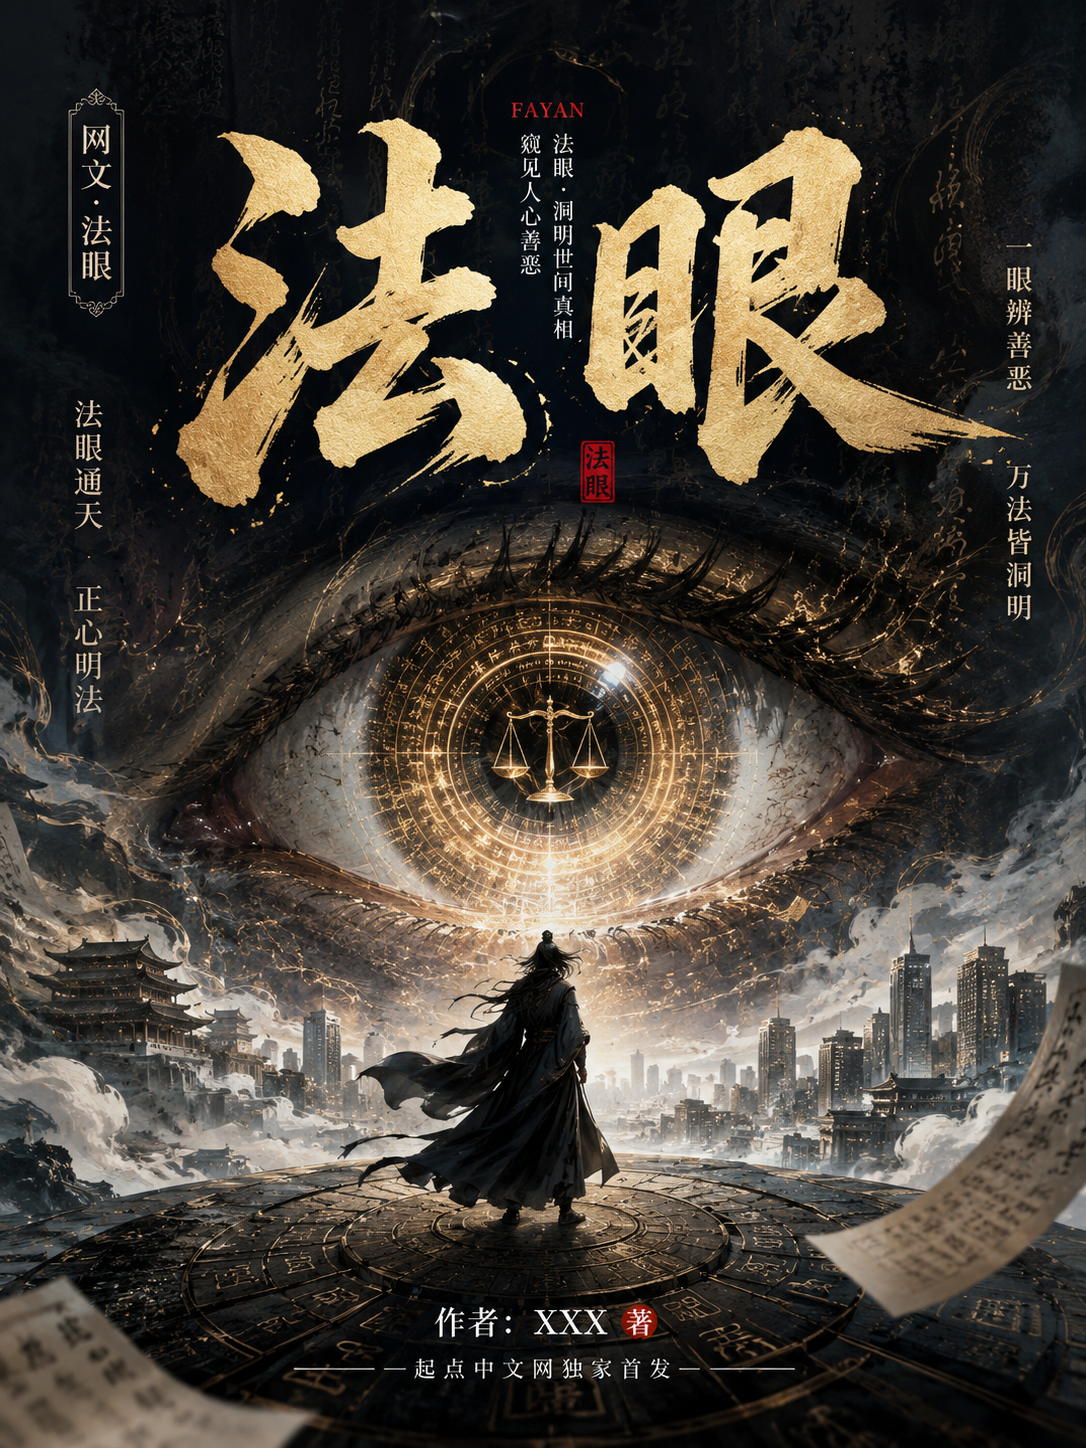
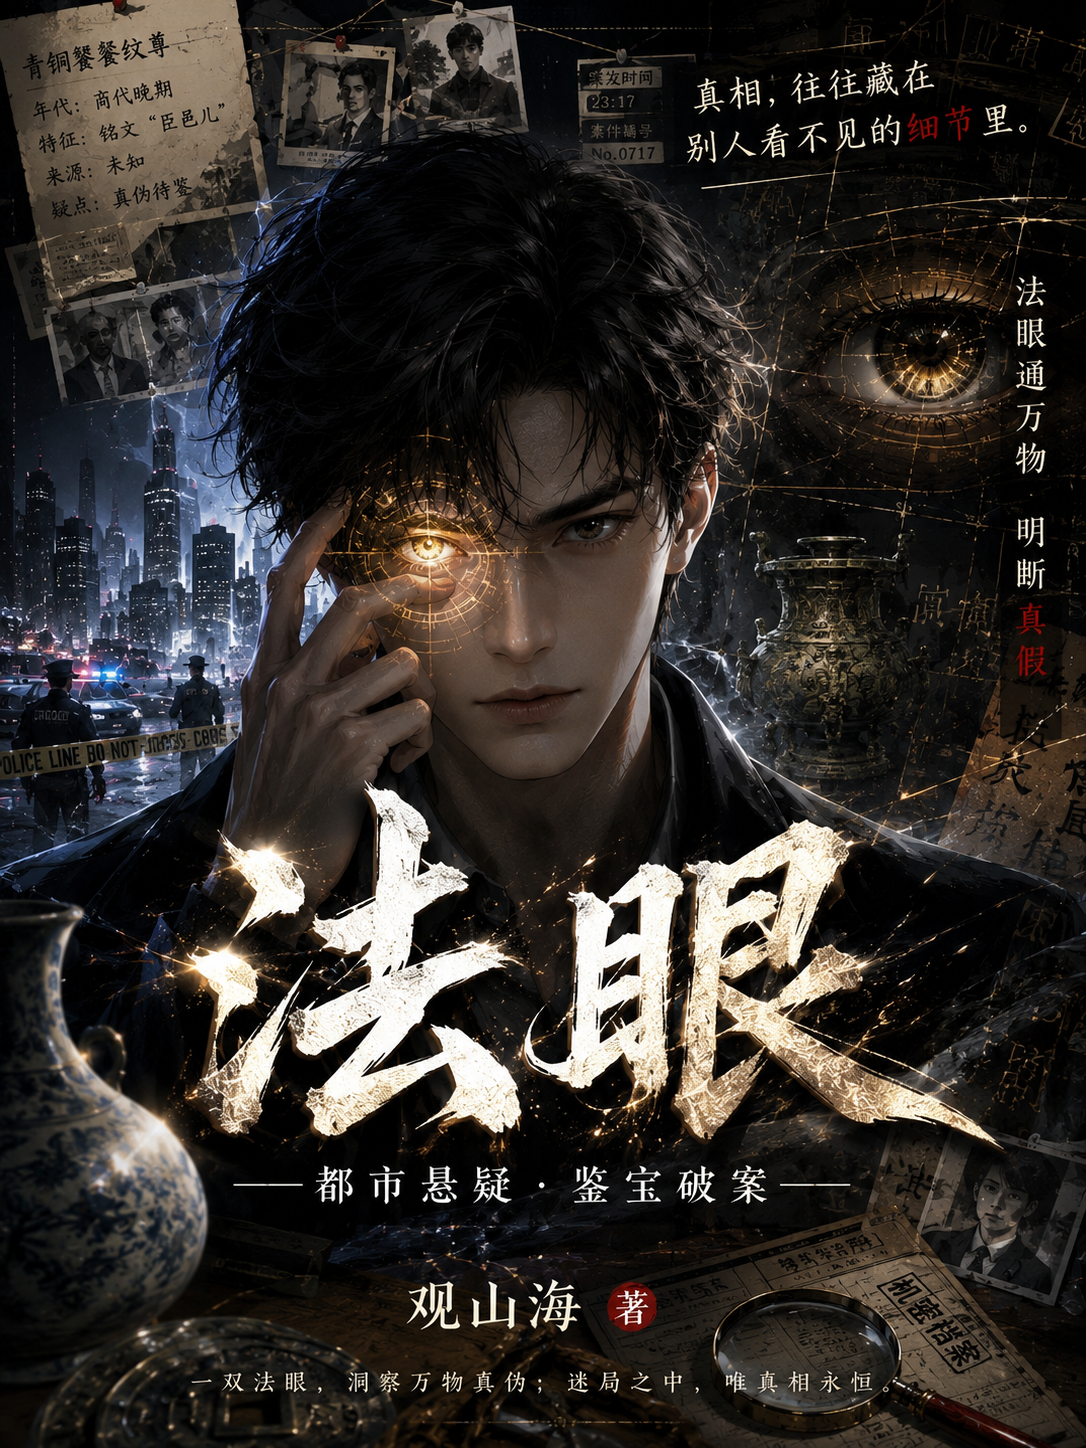
更新发布版简介与新封面（七猫发布用）
https://claude.ai/code/session_01BuYVE3uTYAjFWZ9gMDSE7e

diff --git a/docs/books/fayan/index.html b/docs/books/fayan/index.html
@@ -16,10 +16,10 @@
     <div class="info">
       <h1>法眼</h1>
       <div class="by">观山海 著 · 已完结</div>
-      <div class="tags"><span>都市</span><span>鉴宝</span><span>扮猪吃虎</span><span>爽文</span></div>
+      <div class="tags"><span>都市</span><span>鉴宝</span><span>捡漏</span><span>扮猪吃虎</span><span>打脸爽文</span><span>悬疑</span><span>异能</span><span>小人物逆袭</span></div>
     </div>
   </div>
-  <p class="blurb">古玩城打杂、被所有人当透明人的穷小子陈默，因一次意外得到能看穿万物的「法眼」，从此一路捡漏鉴宝、扮猪吃虎翻身崛起——可他越往上走，越发现这双眼睛的来历，和父亲当年那桩没说清的旧案缠在一起。</p>
+  <p class="blurb">古玩城里扫了三年地的陈默，被人当透明人踩了三年。直到父亲留下的一面旧铜镜，让他开了一双能看穿万物的「法眼」——古董真伪、赌石成色、埋在地下千年的东西，一眼到底。鬼市捡漏，三百块的脏石头转手卖出三十八万；雅集之上，满堂专家看走眼的“国宝”，被他一句话钉死。可他偏要藏起这双眼，做回那个没人多看一眼的扫地的。因为他记得——十二年前，父亲也有这样一双眼；也正是这双眼，让父亲死在了一场“塌方”里。一镜，一眼，一桩压了十二年的旧案。当那些踩着尸骨登天的体面人重新盯上他时，陈默才懂：这双眼能看尽古玩江湖的真假，却要赌上两代人的命，去看一个谁都不敢看的真相。扮猪吃虎，鉴宝捡漏；藏锋十二载，今朝开眼。</p>
   <div class="toc-h">目录</div>
   <ul class="toc">
 <li><a href="chapter-001.html"><span class="nm">第001章 打杂的也配说话</span><span class="cn">3092 字</span></a></li>

diff --git a/docs/index.html b/docs/index.html
@@ -18,7 +18,7 @@
 <a class="book" href="books/fayan/index.html">
   <img class="cover" src="books/fayan/cover.png" alt="法眼 封面">
   <p class="bt">法眼</p>
-  <p class="bd">古玩城打杂、被所有人当透明人的穷小子陈默，因一次意外得到能看穿万物的「法眼」，从此一路捡漏鉴宝、扮猪吃虎翻身崛起——可他越往上走，越发现这双眼睛的来历，和父亲当年那桩没说清的旧案缠在一起。</p>
+  <p class="bd">古玩城里扫了三年地的陈默，被人当透明人踩了三年。直到父亲留下的一面旧铜镜，让他开了一双能看穿万物的「法眼」——古董真伪、赌石成色、埋在地下千年的东西，一眼到底。鬼市捡漏，三百块的脏石头转手卖出三十八万；雅集之上，满堂专家看走眼的“国宝”，被他一句话钉死。可他偏要藏起这双眼，做回那个没人多看一眼的扫地的。因为他记得——十二年前，父亲也有这样一双眼；也正是这双眼，让父亲死在了一场“塌方”里。一镜，一眼，一桩压了十二年的旧案。当那些踩着尸骨登天的体面人重新盯上他时，陈默才懂：这双眼能看尽古玩江湖的真假，却要赌上两代人的命，去看一个谁都不敢看的真相。扮猪吃虎，鉴宝捡漏；藏锋十二载，今朝开眼。</p>
   <span class="badge">已完结 · 38 章</span>
 </a>
 </main>